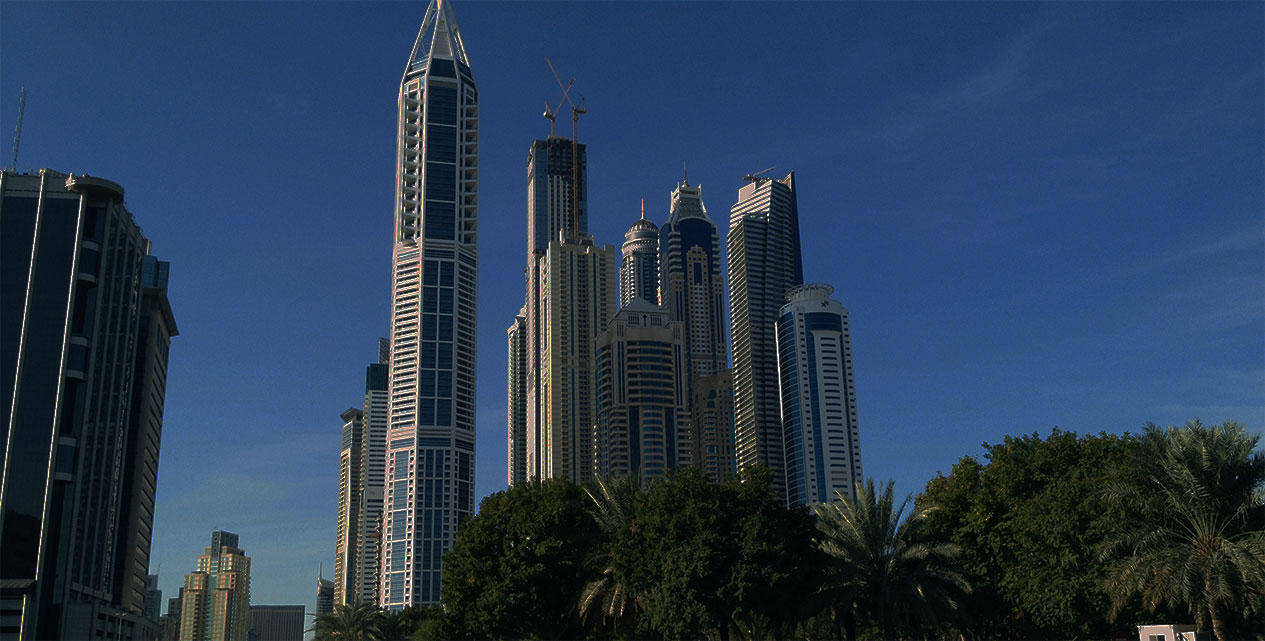
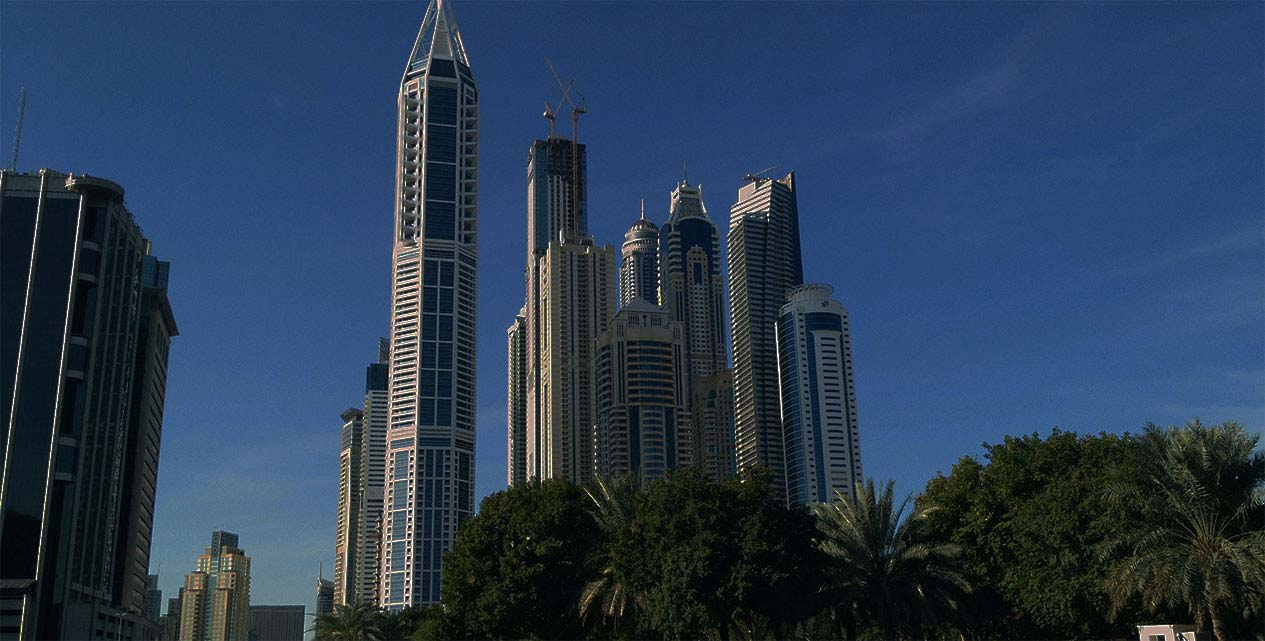
delete big png-images portfolio

diff --git a/src/components/Portfolio.vue b/src/components/Portfolio.vue
@@ -112,12 +112,12 @@
 </section>
 </template>
 <script>
-import img1 from '../assets/images/portfolio_1.png'
-import img2 from '../assets/images/portfolio_2.png'
-import img3 from '../assets/images/portfolio_3.png'
-import img4 from '../assets/images/portfolio_4.png'
-import img5 from '../assets/images/portfolio_5.png'
-import img6 from '../assets/images/portfolio_6.png'
+import img1 from '../assets/images/portfolio_1.jpg'
+import img2 from '../assets/images/portfolio_2.jpg'
+import img3 from '../assets/images/portfolio_3.jpg'
+import img4 from '../assets/images/portfolio_4.jpg'
+import img5 from '../assets/images/portfolio_5.jpg'
+import img6 from '../assets/images/portfolio_6.jpg'
 export default {
   name: 'Portfolio',
   data () {
